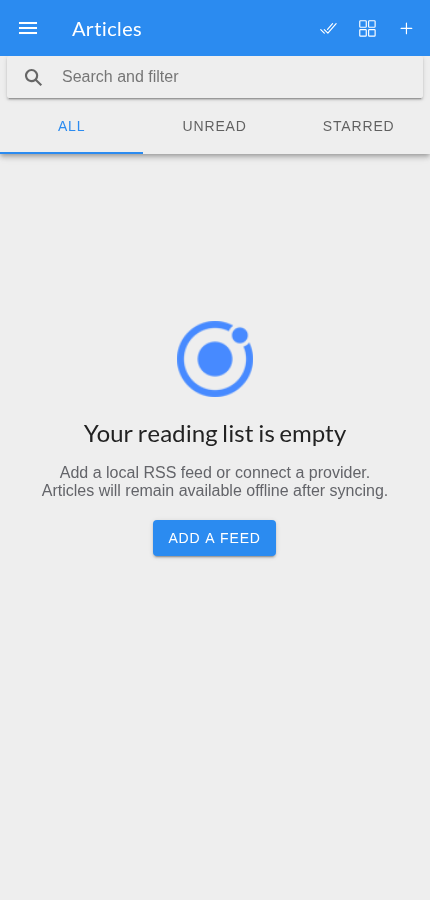
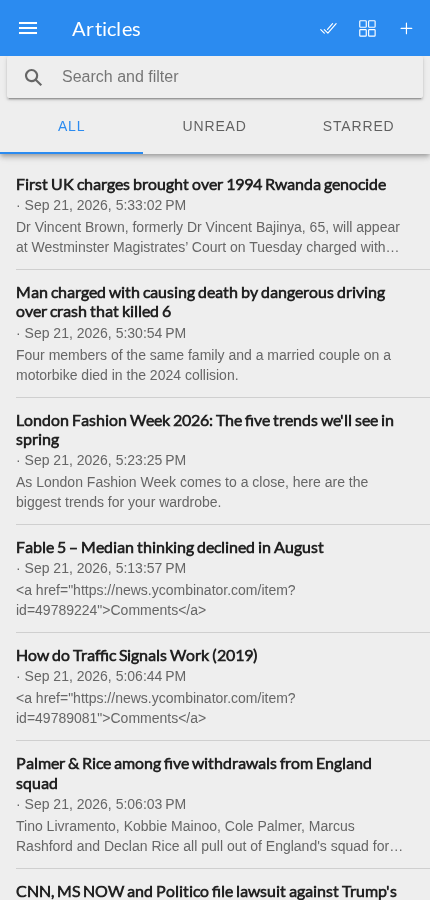
feat: more app screens + Google Play listing assets
- Screens section expanded from 3 to 6 real captures of the running app
  (reading list, article reader, side menu, manage feeds, voice reading,
  dark theme), all at the existing 430x900 convention with live feeds loaded
- play-store/: Play-ready assets - 8 phone screenshots at 1080x1920 (9:16),
  1024x500 feature graphic, 512x512 hi-res icon, and listing.md with draft
  title, short + full description and category

diff --git a/play-store/listing.md b/play-store/listing.md
@@ -1,0 +1,49 @@
+# Google Play listing - gReader
+
+Draft store listing and assets for the Google Play submission.
+Phone screenshots are 1080x1920 (9:16, within Play's 320-3840px bounds) and are
+real captures of the running app (https://app.greaderapp.com) with live feeds.
+
+## Assets
+
+- `icon-512.png` - hi-res icon, 512x512 PNG (upscaled from the app's 192px
+  master; replace with a vector render before submission if one exists)
+- `feature-graphic.png` - feature graphic, 1024x500 PNG
+- `phone-screenshots/` - 8 phone screenshots: feeds, reader, menu,
+  subscriptions, settings, voice, dark, podcasts
+
+## Title
+
+gReader - RSS Reader
+
+## Short description (80 chars max)
+
+Fast, open-source RSS reader. Offline reading, podcasts and voice reading.
+
+## Full description
+
+gReader is a fast, focused RSS reader inspired by the classic gReader
+workflow. No ads, no subscription, no algorithm deciding what you should
+read.
+
+- All, unread and starred views with fast search and filters
+- Offline reading: articles and media stay available without a connection
+- Feed discovery: add feeds by URL, browse categories, news and podcasts
+- OPML import and export: bring your subscriptions with you
+- Podcasts: find, subscribe and play podcast feeds
+- Voice reading: listen to articles with configurable voice, speed and pitch
+- Reading mode with text size, themes and page inversion
+- Folders and per-feed control for large reading lists
+- Themes: default, green, sepia, dark and black
+
+gReader is free and open source. Local RSS works without an account;
+your feeds and articles stay on your device.
+
+## Category
+
+News & Magazines
+
+## Content notes
+
+- No ads, no in-app purchases
+- Target audience: everyone
